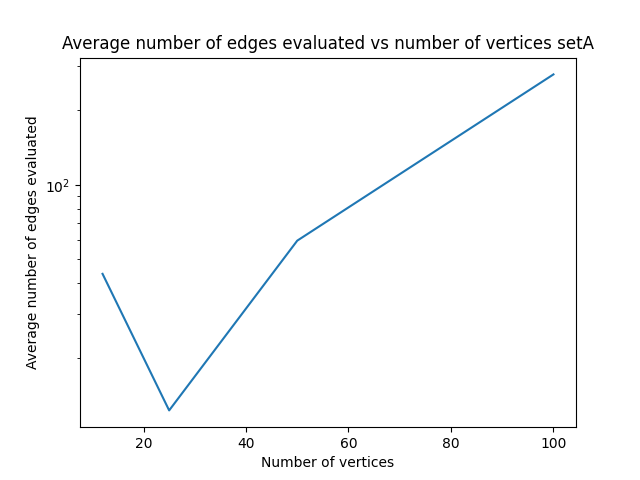
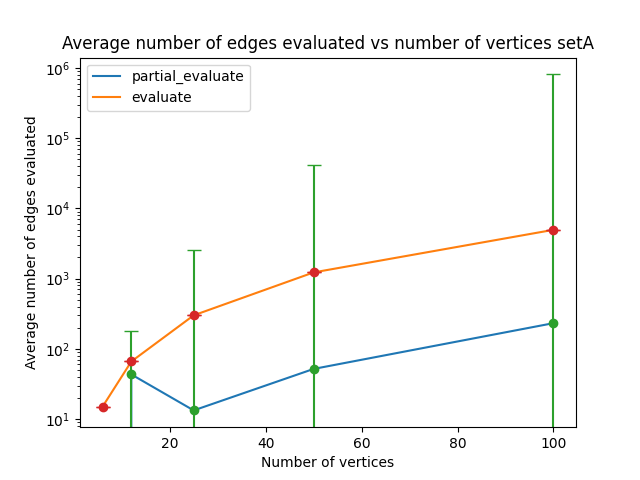
many plots

diff --git a/SGA/plot_nina.py b/SGA/plot_nina.py
@@ -4,6 +4,7 @@ import os
 from GeneticAlgorithm import GeneticAlgorithm
 import FitnessFunction
 import matplotlib.pyplot as plt
+import pandas as pd
 
 
 def fitness_population_size(graphs, number_vertices):
@@ -222,14 +223,16 @@ def plot_num_edges_evaluated(graphs, crossover="UniformCrossover"):
             instances[number_of_vertices] = [inst]
           
     standard_average_edges_evaluated = {}  
+    standard_median_edges_evaluated = {}
     standard_variance_edges_evaluated = {}
     average_edges_evaluated = {}
+    median_edges_evaluated = {}
     variance_edges_evaluated = {}
     
     for number_vertices in instances:
         for inst in instances[number_vertices]:
             fitness = FitnessFunction.MaxCut(inst)
-            genetic_algorithm = GeneticAlgorithm(fitness,500,variation=crossover,evaluation_budget=100000,verbose=False, evaluation = "partial_evaluate")
+            genetic_algorithm = GeneticAlgorithm(fitness,500,variation=crossover,evaluation_budget=10000,verbose=False, evaluation = "partial_evaluate")
             best_fitness, num_evaluations, generation = genetic_algorithm.run()
             #print(fitness.number_of_edges_evaluated)
             if number_vertices in average_edges_evaluated:
@@ -244,37 +247,100 @@ def plot_num_edges_evaluated(graphs, crossover="UniformCrossover"):
     for number_vertices in average_edges_evaluated:
         if len(average_edges_evaluated[number_vertices]) == 0:
             average_edges_evaluated[number_vertices] = 0
+            median_edges_evaluated[number_vertices] = 0
             variance_edges_evaluated[number_vertices] = 0
         else:
             variance_edges_evaluated[number_vertices] = np.var(average_edges_evaluated[number_vertices])
+            median_edges_evaluated[number_vertices] = np.median(average_edges_evaluated[number_vertices])
             average_edges_evaluated[number_vertices] = np.mean(average_edges_evaluated[number_vertices])
             
     for number_vertices in standard_average_edges_evaluated:
         if len(standard_average_edges_evaluated[number_vertices]) == 0:
             standard_average_edges_evaluated[number_vertices] = 0
+            standard_median_edges_evaluated[number_vertices] = 0
             standard_variance_edges_evaluated[number_vertices] = 0
         else:
             standard_variance_edges_evaluated[number_vertices] = np.var(standard_average_edges_evaluated[number_vertices])
+            standard_median_edges_evaluated[number_vertices] = np.median(standard_average_edges_evaluated[number_vertices])
             standard_average_edges_evaluated[number_vertices] = np.mean(standard_average_edges_evaluated[number_vertices])
         
     # save averages and standard deviations to a csv
     with open("SGA/partial_evaluation_figures/edges_evaluated_comparison_{}_{}.csv".format(graphs, crossover), "w") as f:
-        f.write("Number of vertices, Average number of edges evaluated, Variance of number of edges evaluated, Standard average number of edges evaluated, Variance of number of edges evaluated\n")
+        f.write("Number of vertices, Average number of edges evaluated, Median number of edges evaluated, Variance of number of edges evaluated, Standard average number of edges evaluated, Standard median number of edges evaluated, Standard variance of number of edges evaluated\n")
         for number_vertices in average_edges_evaluated:
-            f.write("{}, {}, {}, {}, {}\n".format(number_vertices, average_edges_evaluated[number_vertices], variance_edges_evaluated[number_vertices], standard_average_edges_evaluated[number_vertices], standard_variance_edges_evaluated[number_vertices]))
+            f.write("{}, {}, {}, {}, {}, {}, {}\n".format(
+                number_vertices, 
+                average_edges_evaluated[number_vertices], 
+                median_edges_evaluated[number_vertices], 
+                variance_edges_evaluated[number_vertices], 
+                standard_average_edges_evaluated[number_vertices], 
+                standard_median_edges_evaluated[number_vertices], 
+                standard_variance_edges_evaluated[number_vertices]))
             
         
     plt.figure()
     plt.plot(average_edges_evaluated.keys(),average_edges_evaluated.values(), label="partial_evaluate")
     plt.plot(standard_average_edges_evaluated.keys(),standard_average_edges_evaluated.values(), label="evaluate")
     plt.legend()
-    plt.errorbar(average_edges_evaluated.keys(),average_edges_evaluated.values(), yerr = variance_edges_evaluated.values(), fmt='o', capsize=5)
-    plt.errorbar(standard_average_edges_evaluated.keys(),standard_average_edges_evaluated.values(), yerr = standard_variance_edges_evaluated.values(), fmt='o', capsize=5)
+    plt.errorbar(list(average_edges_evaluated.keys()),list(average_edges_evaluated.values()), yerr = np.sqrt(list(variance_edges_evaluated.values())), fmt='o', capsize=5)
+    plt.errorbar(list(standard_average_edges_evaluated.keys()),list(standard_average_edges_evaluated.values()), yerr = np.sqrt(list(standard_variance_edges_evaluated.values())), fmt='o', capsize=5)
     plt.yscale("log")
     plt.xlabel("Number of vertices")
     plt.ylabel("Average number of edges evaluated")
     plt.title(f"Average number of edges evaluated vs number of vertices {graphs}")
     plt.savefig("SGA/partial_evaluation_figures/edges_evaluated_comparison_{}_{}.png".format(graphs, crossover))
+    
+def plot_edges_evaluated(set):
+    crossovers = ["UniformCrossover", "OnePointCrossover", "TwoPointCrossover", "EdgeCrossover"]
+    num_vert = {}
+    avg_edges_evaluated = {}
+    std_edges_evaluated = {}
+    for crossover in crossovers:
+        df = pd.read_csv(f"SGA/partial_evaluation_figures/edges_evaluated_comparison_{set}_{crossover}.csv", header=0)
+        #print(df.columns)
+        num_vert[crossover] = df["Number of vertices"]
+        avg_edges_evaluated[crossover] = df[" Average number of edges evaluated"]
+        std_edges_evaluated[crossover] = df[" Variance of number of edges evaluated"]
+        
+    plt.figure()
+    for crossover in crossovers:
+        plt.errorbar(num_vert[crossover], avg_edges_evaluated[crossover], yerr = np.sqrt(std_edges_evaluated[crossover]), fmt='-o', capsize=5, label=crossover)
+    #baseline is standard evaluate
+    plt.errorbar(df["Number of vertices"], df[" Standard average number of edges evaluated"], yerr = np.sqrt(df[" Standard variance of number of edges evaluated"]), fmt='-o', capsize=5, label="Full evaluate")
+    plt.yscale("log")
+    plt.xlabel("Number of vertices")
+    plt.ylabel("Average number of edges evaluated")
+    #plt.title(f"Average number of edges evaluated vs number of vertices {set}")
+    plt.legend()
+    plt.savefig(f"SGA/partial_evaluation_figures/edges_evaluated_comparison_{set}.png")
+    
+def plot_edges_evaluated_crossover(crossover):
+    sets = ["setA", "setB", "setC", "setD", "setE"]
+    num_vert = {}
+    avg_edges_evaluated = {}
+    std_edges_evaluated = {}
+    standard_avg_edges_evaluated = {}
+    standard_std_edges_evaluated = {}
+    for set in sets:
+        df = pd.read_csv(f"SGA/partial_evaluation_figures/edges_evaluated_comparison_{set}_{crossover}.csv", header=0)
+        #print(df.columns)
+        num_vert[set] = df["Number of vertices"]
+        avg_edges_evaluated[set] = df[" Average number of edges evaluated"]
+        std_edges_evaluated[set] = df[" Variance of number of edges evaluated"]
+        standard_avg_edges_evaluated[set] = df[" Standard average number of edges evaluated"]
+        standard_std_edges_evaluated[set] = df[" Standard variance of number of edges evaluated"]
+        
+    plt.figure()
+    for set in sets:
+        plt.errorbar(num_vert[set], avg_edges_evaluated[set], yerr = np.sqrt(std_edges_evaluated[set]), fmt='-o', capsize=5, label=f"{set} partial evaluation")
+        plt.errorbar(num_vert[set], standard_avg_edges_evaluated[set], yerr = np.sqrt(standard_std_edges_evaluated[set]), fmt='-o', capsize=5, label=f"{set} full evaluation")
+    plt.yscale("log")
+    plt.xlabel("Number of vertices")
+    plt.ylabel("Average number of edges evaluated")
+    plt.title(f"Average number of edges evaluated vs number of vertices {crossover}")
+    plt.legend()
+    plt.savefig(f"SGA/partial_evaluation_figures/edges_evaluated_comparison_{crossover}.png")
+    
     
 
 
@@ -287,4 +353,29 @@ if __name__ == "__main__":
     # plot_evaluation_time("setC", crossover="OnePointCrossover")
     # plot_evaluation_time("setD", crossover="OnePointCrossover")
     # plot_evaluation_time("setE", crossover="OnePointCrossover")
-    plot_num_edges_evaluated("setA", crossover="OnePointCrossover")
+    # plot_num_edges_evaluated("setA", crossover="OnePointCrossover")
+    # plot_num_edges_evaluated("setB", crossover="OnePointCrossover")
+    # plot_num_edges_evaluated("setC", crossover="OnePointCrossover")
+    # plot_num_edges_evaluated("setD", crossover="OnePointCrossover")
+    # plot_num_edges_evaluated("setE", crossover="OnePointCrossover")
+    # plot_num_edges_evaluated("setA", crossover="UniformCrossover")
+    # plot_num_edges_evaluated("setB", crossover="UniformCrossover")
+    # plot_num_edges_evaluated("setC", crossover="UniformCrossover")
+    # plot_num_edges_evaluated("setD", crossover="UniformCrossover")
+    # plot_num_edges_evaluated("setE", crossover="UniformCrossover")
+    # plot_num_edges_evaluated("setA", crossover="TwoPointCrossover")
+    # plot_num_edges_evaluated("setB", crossover="TwoPointCrossover")
+    # plot_num_edges_evaluated("setC", crossover="TwoPointCrossover")
+    # plot_num_edges_evaluated("setD", crossover="TwoPointCrossover")
+    # plot_num_edges_evaluated("setE", crossover="TwoPointCrossover")
+    # plot_num_edges_evaluated("setA", crossover="EdgeCrossover")
+    plot_num_edges_evaluated("setB", crossover="EdgeCrossover")
+    # plot_num_edges_evaluated("setC", crossover="EdgeCrossover")
+    # plot_num_edges_evaluated("setD", crossover="EdgeCrossover")
+    # plot_num_edges_evaluated("setE", crossover="EdgeCrossover")
+    # plot_edges_evaluated("setA")
+    # plot_edges_evaluated("setB")
+    # plot_edges_evaluated("setC")
+    # plot_edges_evaluated("setD")
+    # plot_edges_evaluated("setE")
+    #plot_edges_evaluated_crossover("UniformCrossover")
